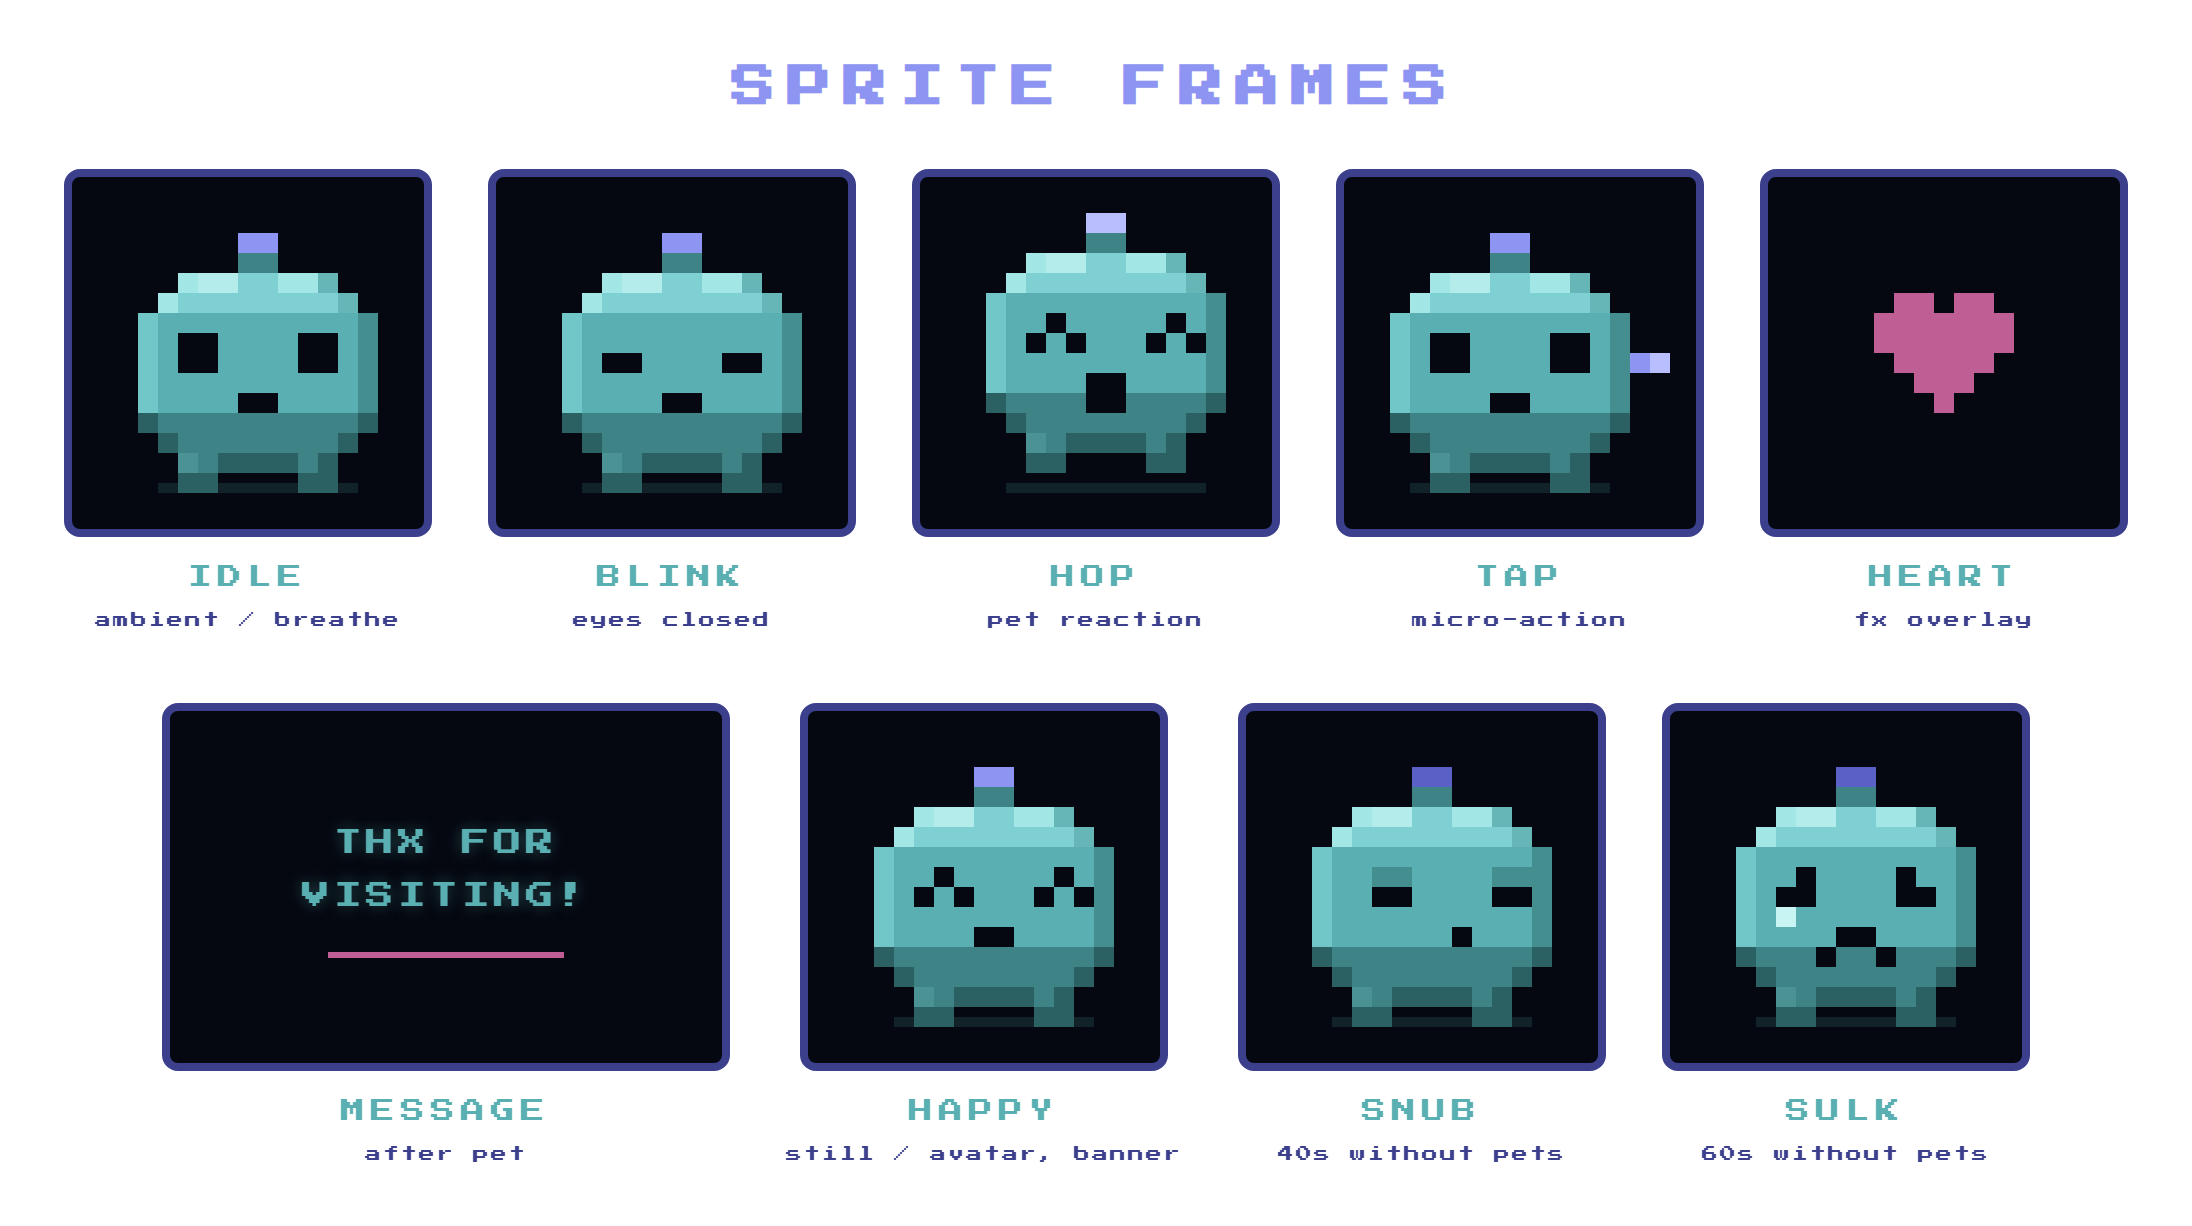
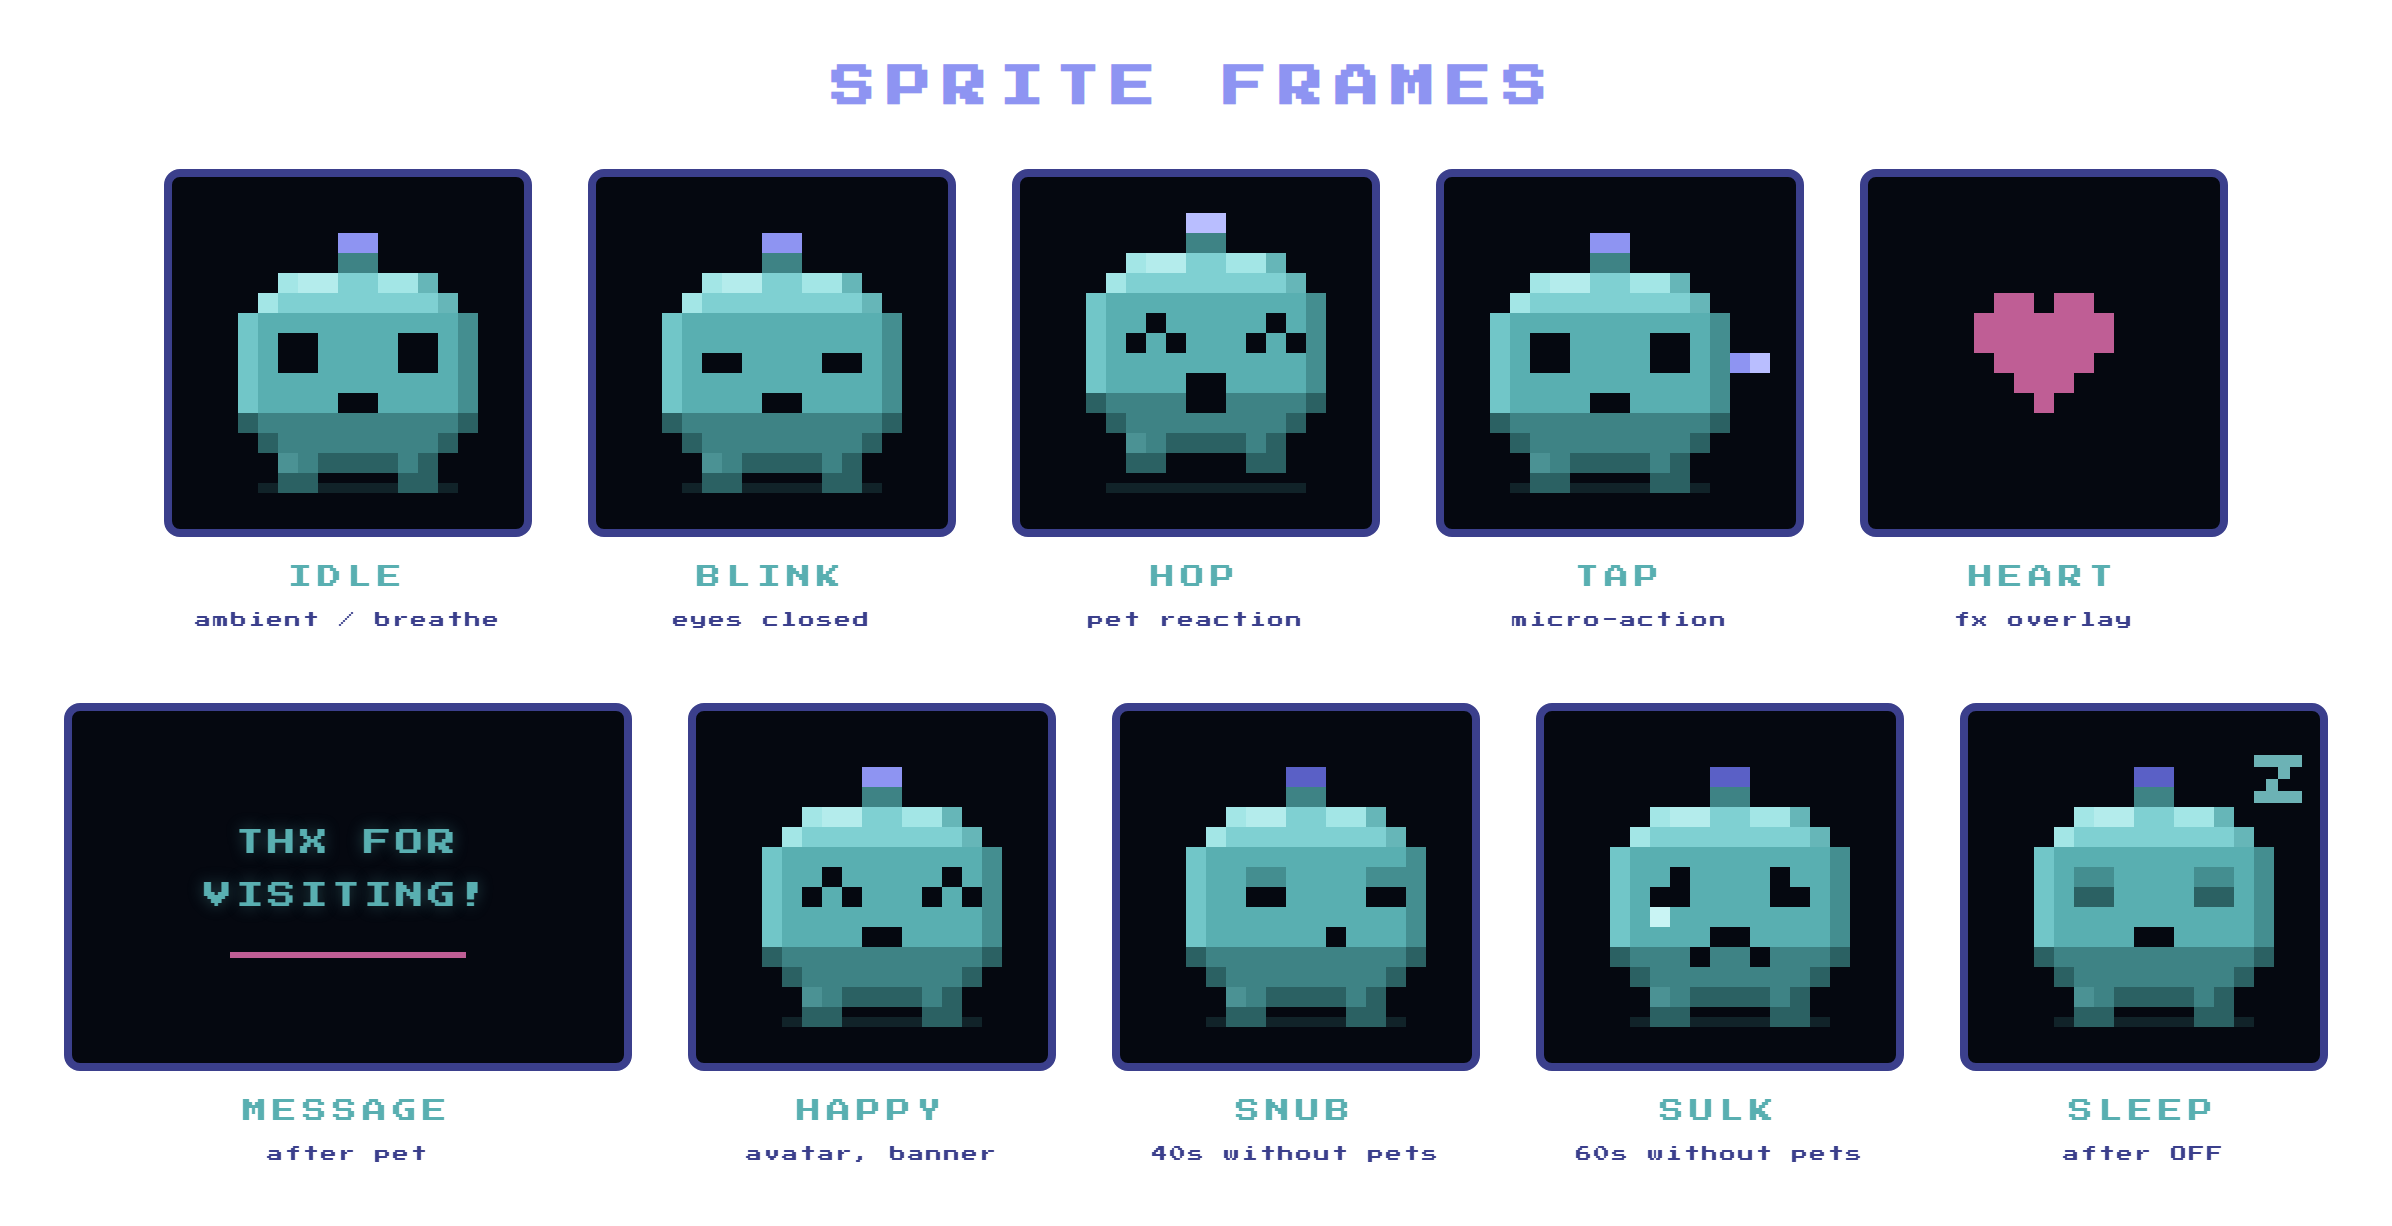
Let her sleep: the power key turns her off and on
The key now says what a press does: a red OFF while she is awake, a teal
ON while she sleeps. One fixed width for both labels, centred between
the screen and the shell's edge, so it does not jump or creep outward.

Asleep, she closes her lids, breathes slower, her bulb and screen dim,
the status dots go out and z's drift up. The terminal goes dark and the
hint tells you how to wake her. PET opens one sleepy eye; LOOK does
nothing. The mood clock stops while she sleeps and starts fresh when she
wakes, so she never wakes up already sulking. Waking replays the log.

SLEEP joins the published frame sheet.

diff --git a/PixelPet.framer.tsx b/PixelPet.framer.tsx
@@ -77,7 +77,11 @@ const TONES: Record<string, { lit: string; base: string; away: string }> = {
 }
 const SPECULAR = "#B4ECEC"
 const LID = TONES.B.away
+// asleep: the lid's lower row one tone darker, where it meets the cheek
+const CREASE = TONES.D.away
 const TEAR = "#C9F4F4"
+// a pixel z for sleep, drawn in finer cells than the body so it stays small
+const Z = ["####", "  # ", " #  ", "####"]
 const BULB_DIM = ["#5A60C6", "#6B71D6"]
 const filled = (r: number, c: number) =>
     r >= 0 && r < BODY.length && c >= 0 && c < BODY[r].length && BODY[r][c] !== " "
@@ -159,6 +163,10 @@ interface PetState {
     lastT: number
     onScreen: boolean
     snubSide: number // which way she turns away while snubbing
+    asleep: boolean
+    sleptAt: number
+    wokeAt: number
+    peekUntil: number // a pet while she sleeps opens one eye for a moment
 }
 
 interface Props {
@@ -175,7 +183,6 @@ interface Props {
 }
 
 // scoped CSS. All classes prefixed `pd-` so nothing leaks into the host page.
-// Power glow breathes on a 3.45s half-cycle = Peri's ~6.9s breath rhythm.
 const CSS = `
 .pd-deck { display: flex; align-items: center; justify-content: center; gap: 0; }
 
@@ -300,19 +307,22 @@ const CSS = `
         0 1px 0 #6E3354, 0 2px 3px rgba(40,10,30,0.4);
 }
 
-/* "ON" status key — same family as the buttons: a matte teal cap in a
-   recessed well. States that Peri is on (no off-state); clicking re-runs the log.
-   Tucked 8px off the screen surround (half the bezel is 115px), not against the
-   shell's edge, so the sides can stay slim. */
+/* power key — same family as the buttons: a matte cap in a recessed well. Its
+   label says what a press does: a red OFF while she's awake, a teal ON while she
+   sleeps. Centred in the gap between the screen surround (115px from the middle)
+   and the shell's edge (179px), so the sides can stay slim. */
 .pd-power-well {
-    position: absolute; left: calc(50% + 123px); top: 50%; transform: translateY(-50%);
+    position: absolute; left: calc(50% + 147px); top: 50%; transform: translate(-50%, -50%);
     padding: 4px 4px 6px; border-radius: 7px;
     background: linear-gradient(180deg, #6A70D2, #9298F3);
     box-shadow: inset 0 2px 3px rgba(40,43,110,0.55), 0 1px 0 rgba(255,255,255,0.45);
 }
+/* one fixed width for ON and OFF so the key doesn't jump; letter-spacing 0 like
+   PET, and 1px of left padding to balance the glyphs' own right bearing */
 .pd-power {
-    display: block; padding: 6px 7px 5px; cursor: pointer; border: none; border-radius: 4px;
-    font-family: ${FONT}; font-size: 8px; letter-spacing: 1px; line-height: 1;
+    display: block; width: 36px; padding: 6px 0 5px 1px; text-align: center;
+    cursor: pointer; border: none; border-radius: 4px;
+    font-family: ${FONT}; font-size: 8px; letter-spacing: 0; line-height: 1;
     color: #0B1A1A;
     background: linear-gradient(180deg, #60B7B9 0%, ${C.teal} 55%, #54A8AA 100%);
     box-shadow: inset 0 1px 0 rgba(255,255,255,0.22), inset 0 -2px 3px rgba(0,0,0,0.12),
@@ -325,6 +335,24 @@ const CSS = `
     box-shadow: inset 0 1px 0 rgba(255,255,255,0.15), inset 0 2px 3px rgba(0,0,0,0.15),
         0 1px 0 #2F6A6C, 0 2px 3px rgba(20,22,60,0.35);
 }
+/* OFF: a warm true red, kept clear of PET's magenta, with its own dark edge */
+.pd-deck:not(.pd-asleep) .pd-power {
+    color: #FFF1EF; text-shadow: 0 -1px 0 rgba(124,38,33,0.8);
+    background: linear-gradient(180deg, #E35A50 0%, #D94B43 55%, #CF443D 100%);
+    box-shadow: inset 0 1px 0 rgba(255,255,255,0.22), inset 0 -2px 3px rgba(0,0,0,0.12),
+        0 3px 0 #7C2621, 0 4px 4px rgba(40,10,10,0.4);
+}
+.pd-deck:not(.pd-asleep) .pd-power:active {
+    box-shadow: inset 0 1px 0 rgba(255,255,255,0.15), inset 0 2px 3px rgba(0,0,0,0.15),
+        0 1px 0 #7C2621, 0 2px 3px rgba(40,10,10,0.35);
+}
+
+/* asleep: the backlight dims and the terminal goes dark */
+.pd-dim { background: ${C.bg}; opacity: 0; transition: opacity 1.2s ease; }
+.pd-asleep .pd-dim { opacity: 0.35; }
+.pd-terminal, .pd-body { transition: background 1.2s ease, border-color 1.2s ease; }
+.pd-asleep .pd-body { background: #070912; }
+.pd-asleep .pd-terminal { border-color: rgba(89,175,177,0.07); }
 
 /* side port: where the link cable meets the shell (desktop only) */
 .pd-port {
@@ -442,6 +470,7 @@ export default function PixelPet(props: Props) {
     const msgTimer = useRef<ReturnType<typeof setTimeout>>()
     const [msg, setMsg] = useState(false)
     const [boot, setBoot] = useState(0) // bump to replay the log boot stagger
+    const [asleep, setAsleep] = useState(false)
     const [stacked, setStacked] = useState(false)
     // per-instance prefix for the cable's SVG ids, so two Peris on one page don't share them
     const uid = "pd" + useId().replace(/:/g, "")
@@ -495,6 +524,10 @@ export default function PixelPet(props: Props) {
             lastT: now,
             onScreen: true,
             snubSide: 1,
+            asleep: false,
+            sleptAt: 0,
+            wokeAt: -1e9,
+            peekUntil: 0,
         }
         petRef.current = pet
 
@@ -530,10 +563,17 @@ export default function PixelPet(props: Props) {
         const loop = (t: number) => {
             const dt = Math.min(t - pet.lastT, 100)
             pet.lastT = t
-            if (pet.onScreen && !document.hidden && pet.hopStart == null)
+            // the mood clock stops while she sleeps; waking resets it
+            if (
+                pet.onScreen &&
+                !document.hidden &&
+                pet.hopStart == null &&
+                !pet.asleep
+            )
                 pet.lonely += dt
-            const mood =
-                pet.lonely >= SULK_AFTER
+            const mood = pet.asleep
+                ? null
+                : pet.lonely >= SULK_AFTER
                     ? "sulk"
                     : pet.lonely >= SNUB_AFTER
                       ? "snub"
@@ -543,12 +583,13 @@ export default function PixelPet(props: Props) {
                 pet.blinkUntil = t + 130
                 pet.nextBlink = t + 2200 + Math.random() * 2400
             }
-            // no fidgeting while she's in a mood
+            // no fidgeting while she's in a mood or asleep
             if (
                 t > pet.nextMicro &&
                 pet.hopStart == null &&
                 t > pet.microUntil &&
-                !mood
+                !mood &&
+                !pet.asleep
             ) {
                 if (Math.random() < 0.35) {
                     pet.micro = "tap"
@@ -575,24 +616,35 @@ export default function PixelPet(props: Props) {
                 }
             }
 
-            const breath = Math.sin(t / 1100)
-            const oyPx = OY + Math.round(breath * 2) + hopPx
+            // asleep, she breathes slower and deeper: the ~6.9s cycle
+            const breath = pet.asleep
+                ? Math.sin(((t - pet.sleptAt) / 1100) * 0.32)
+                : Math.sin(t / 1100)
+            const oyPx =
+                OY + Math.round(breath * (pet.asleep ? 3 : 2)) + hopPx
 
             const active = t < pet.microUntil ? pet.micro : null
-            const blink = t < pet.blinkUntil
+            // waking: two quick blinks before her eyes open
+            const sinceWake = t - pet.wokeAt
+            const wakeBlink =
+                (sinceWake > 0 && sinceWake < 180) ||
+                (sinceWake > 420 && sinceWake < 560)
+            const blink = t < pet.blinkUntil || wakeBlink
             const look = active === "look" ? pet.microDir : 0
             const tap = active === "tap"
 
             ctx.clearRect(0, 0, CW, CH)
             px(0, 0, CW, CH, C.bg)
 
-            for (let i = 0; i < 5; i++)
-                px(44 + i * 26, 11, ART - 3, ART - 3, C.tdark, 0.55)
+            // status dots go dark while she sleeps
+            if (!pet.asleep)
+                for (let i = 0; i < 5; i++)
+                    px(44 + i * 26, 11, ART - 3, ART - 3, C.tdark, 0.55)
 
             px(OX + 2 * ART, OY + 12 * ART + 4, 10 * ART, 5, C.tdark, 0.22)
 
-            // the bulb dims (but keeps breathing) while she's in a mood
-            const bulb = mood
+            // the bulb dims (but keeps breathing) while she's in a mood or asleep
+            const bulb = mood || pet.asleep
                 ? BULB_DIM[breath > 0 ? 1 : 0]
                 : breath > 0
                   ? C.peribright
@@ -606,7 +658,14 @@ export default function PixelPet(props: Props) {
             }
 
             const drawEye = (baseCol: number, side: number) => {
-                if (happy) {
+                if (pet.asleep) {
+                    // closed lids; on a pet the left one lifts to a slit
+                    const peek = side < 0 && t < pet.peekUntil
+                    cell(baseCol, 5, oyPx, LID)
+                    cell(baseCol + 1, 5, oyPx, LID)
+                    cell(baseCol, 6, oyPx, peek ? C.bg : CREASE)
+                    cell(baseCol + 1, 6, oyPx, peek ? C.bg : CREASE)
+                } else if (happy) {
                     cell(baseCol, 6, oyPx, C.bg)
                     cell(baseCol + 1, 5, oyPx, C.bg)
                     cell(baseCol + 2, 6, oyPx, C.bg)
@@ -659,6 +718,23 @@ export default function PixelPet(props: Props) {
                 cell(14, 6, oyPx, C.peribright)
             }
 
+            // z's drift up and to the right, one every 3.4s, fading out
+            if (pet.asleep) {
+                const since = t - pet.sleptAt - 900
+                for (let k = 0; k < 3; k++) {
+                    const p = (since / 3400 - k / 3) % 1
+                    if (since < 0 || p < 0) continue
+                    const a = p < 0.15 ? p / 0.15 : 1 - (p - 0.15) / 0.85
+                    const zc = p > 0.45 ? 5 : 4
+                    const zx = OX + 12 * ART + Math.round(p * 14)
+                    const zy = oyPx + 16 - Math.round(p * 52)
+                    for (let r = 0; r < Z.length; r++)
+                        for (let ci = 0; ci < Z[r].length; ci++)
+                            if (Z[r][ci] === "#")
+                                px(zx + ci * zc, zy + r * zc, zc, zc, C.tlight, a * 0.9)
+                }
+            }
+
             pet.hearts = pet.hearts.filter((hh) => t - hh.born < 1250)
             for (const hh of pet.hearts) {
                 const p = (t - hh.born) / 1250
@@ -694,8 +770,12 @@ export default function PixelPet(props: Props) {
     const onPet = () => {
         const pet = petRef.current
         if (!pet) return
-        if (soundEnabled) safePlay(petSound, volume)
         const t = performance.now()
+        if (pet.asleep) {
+            pet.peekUntil = t + 900 // one sleepy eye, then back to sleep
+            return
+        }
+        if (soundEnabled) safePlay(petSound, volume)
         pet.lonely = 0
         if (pet.hopStart == null) {
             pet.hopStart = t
@@ -707,17 +787,36 @@ export default function PixelPet(props: Props) {
     }
     const onLook = (dir: number) => () => {
         const pet = petRef.current
-        if (!pet) return
+        if (!pet || pet.asleep) return
         if (soundEnabled) safePlay(lookSound, volume)
         pet.snubSide = dir // while snubbing, LOOK changes which way she turns away
         pet.micro = "look"
         pet.microDir = dir
         pet.microUntil = performance.now() + 850
     }
-    // power light: status + click power-cycles (replays the log boot, with sound)
+    // power key: OFF puts her to sleep and the terminal goes dark; ON wakes
+    // her, replays the log boot and starts her mood clock fresh
     const onPower = () => {
+        const pet = petRef.current
+        if (!pet) return
         if (soundEnabled) safePlay(powerSound, volume)
-        setBoot((b) => b + 1)
+        const t = performance.now()
+        if (!pet.asleep) {
+            pet.asleep = true
+            pet.sleptAt = t
+            pet.hopStart = null
+            pet.hearts = []
+            pet.micro = null
+            setMsg(false)
+            clearTimeout(msgTimer.current)
+        } else {
+            pet.asleep = false
+            pet.wokeAt = t
+            pet.lonely = 0
+            pet.nextMicro = t + 3800
+            setBoot((b) => b + 1)
+        }
+        setAsleep(pet.asleep)
     }
 
     // term-body children, in order, each with a staggered boot-in delay
@@ -753,7 +852,13 @@ export default function PixelPet(props: Props) {
         <div ref={wrapRef} style={{ ...props.style, fontFamily: FONT }}>
             <style>{CSS}</style>
 
-            <div className={stacked ? "pd-deck pd-stacked" : "pd-deck"}>
+            <div
+                className={
+                    "pd-deck" +
+                    (stacked ? " pd-stacked" : "") +
+                    (asleep ? " pd-asleep" : "")
+                }
+            >
                 {/* ─── Peri ─── */}
                 <div className="pd-device">
                     <div className="pd-keyring" />
@@ -766,15 +871,15 @@ export default function PixelPet(props: Props) {
                             } as CSSProperties
                         }
                     >
-                        {/* "ON" status key (click = re-run log, with sound) */}
+                        {/* power key: says what a press does (OFF while she's awake, ON while she sleeps) */}
                         <div className="pd-power-well">
                             <button
                                 type="button"
-                                title="Re-run log"
+                                title={asleep ? "Wake Peri" : "Put Peri to sleep"}
                                 className="pd-power"
                                 onClick={onPower}
                             >
-                                ON
+                                {asleep ? "ON" : "OFF"}
                             </button>
                         </div>
 
@@ -835,13 +940,18 @@ export default function PixelPet(props: Props) {
                                         }}
                                     />
                                 </div>
+                                <div className="pd-overlay pd-dim" />
                                 <div className="pd-overlay pd-scanlines" />
                                 <div className="pd-overlay pd-shade" />
                                 <div className="pd-overlay pd-glare" />
                             </div>
                         </div>
 
-                        <div className="pd-hint">tap to say hi to Peri</div>
+                        <div className="pd-hint">
+                            {asleep
+                                ? "shh… tap ON to wake her"
+                                : "tap to say hi to Peri"}
+                        </div>
 
                         <div className="pd-controls">
                             <div className="pd-control">
@@ -982,7 +1092,7 @@ export default function PixelPet(props: Props) {
                         </svg>
                     </div>
                     <div className="pd-body" key={boot}>
-                        {bodyRows}
+                        {asleep ? null : bodyRows}
                     </div>
                 </div>
             </div>
